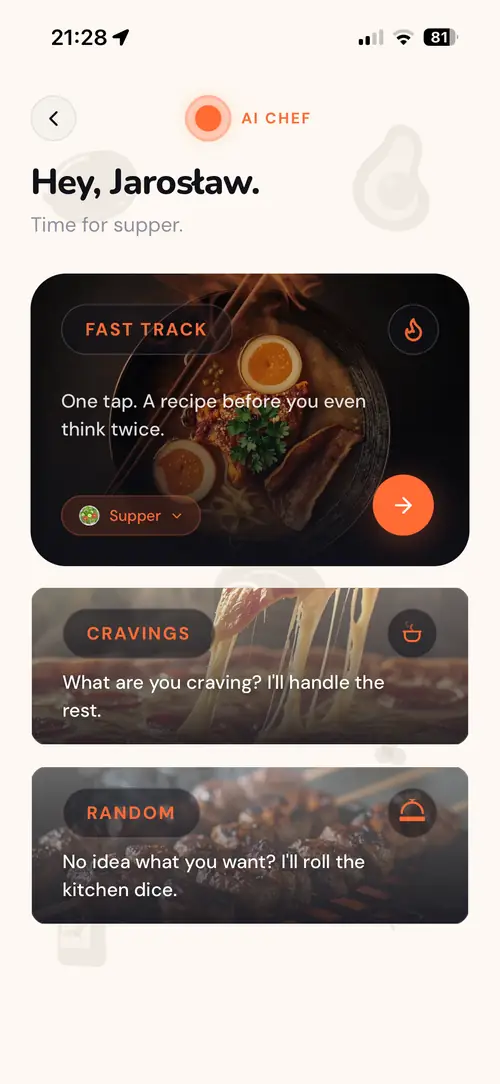
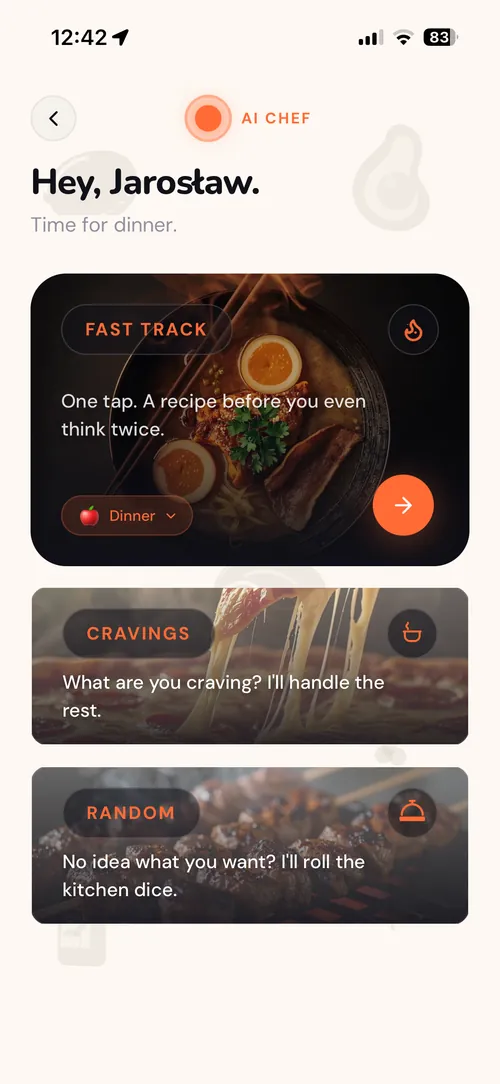
landing v2: AI Chef, Smaczek i "Gotuje" z nowych zrzutow PO (PL+EN), pora posilku jako obiad / dinner
- hw-1a, hw-1b, hw-2a w obu jezykach z zrzutow z 04.10; w EN takze naglowek przepisu (hw-2b)
- zrzuty byly robione o 12:40, wiec aplikacja pokazala pore "Lunch"; etykiete i zdania pory posilku podmieniono
  na brzmienia ze slownika aplikacji dla pory Obiad / Dinner (sub_meal_dinner, meal_label_dinner, searching_dinner,
  meal_header_dinner), krojem i rozmiarem aplikacji (DM Sans 16/12/13 pt, Nunito ExtraBold 22 pt) — decyzja PO (DM-261004.14)
- alt ekranu "Cooking" w EN: supper -> dinner
- pomiar: pierwszy widok PL 193 kB / EN 183 kB (limit 250), cala strona PL 991 kB / EN 958 kB (limit 1200)

diff --git a/en/index.html b/en/index.html
@@ -153,7 +153,7 @@
       </article>
       <article class="beat" data-time="6:04" data-act="Tonight's dinner">
         <div class="rig">
-          <div class="dev"><div class="scr"><img src="/assets/screens/hw-2a-en-300.webp" srcset="/assets/screens/hw-2a-en-300.webp 300w, /assets/screens/hw-2a-en-500.webp 500w" sizes="(min-width: 1080px) 300px, (min-width: 720px) 236px, 56vw" width="360" height="780" loading="lazy" decoding="async" alt="The “Cooking” screen: the app is finding supper"><img src="/assets/screens/hw-2b-en-300.webp" srcset="/assets/screens/hw-2b-en-300.webp 300w, /assets/screens/hw-2b-en-500.webp 500w" sizes="(min-width: 1080px) 300px, (min-width: 720px) 236px, 56vw" width="360" height="780" loading="lazy" decoding="async" alt="A finished recipe with time, cost, calories and the Let&#x27;s cook, Shopping and Add to plan buttons"></div></div>
+          <div class="dev"><div class="scr"><img src="/assets/screens/hw-2a-en-300.webp" srcset="/assets/screens/hw-2a-en-300.webp 300w, /assets/screens/hw-2a-en-500.webp 500w" sizes="(min-width: 1080px) 300px, (min-width: 720px) 236px, 56vw" width="360" height="780" loading="lazy" decoding="async" alt="The “Cooking” screen: the app is finding dinner"><img src="/assets/screens/hw-2b-en-300.webp" srcset="/assets/screens/hw-2b-en-300.webp 300w, /assets/screens/hw-2b-en-500.webp 500w" sizes="(min-width: 1080px) 300px, (min-width: 720px) 236px, 56vw" width="360" height="780" loading="lazy" decoding="async" alt="A finished recipe with time, cost, calories and the Let&#x27;s cook, Shopping and Add to plan buttons"></div></div>
           <ul class="set" aria-hidden="true"><li class="chip ok" style="--i:0">your diet in mind</li><li class="chip ok" style="--i:1">fits your equipment</li><li class="chip ok" style="--i:2">supermarket ingredients</li><li class="chip ok" style="--i:3">always something new</li></ul>
         </div>
         <div class="cap">
